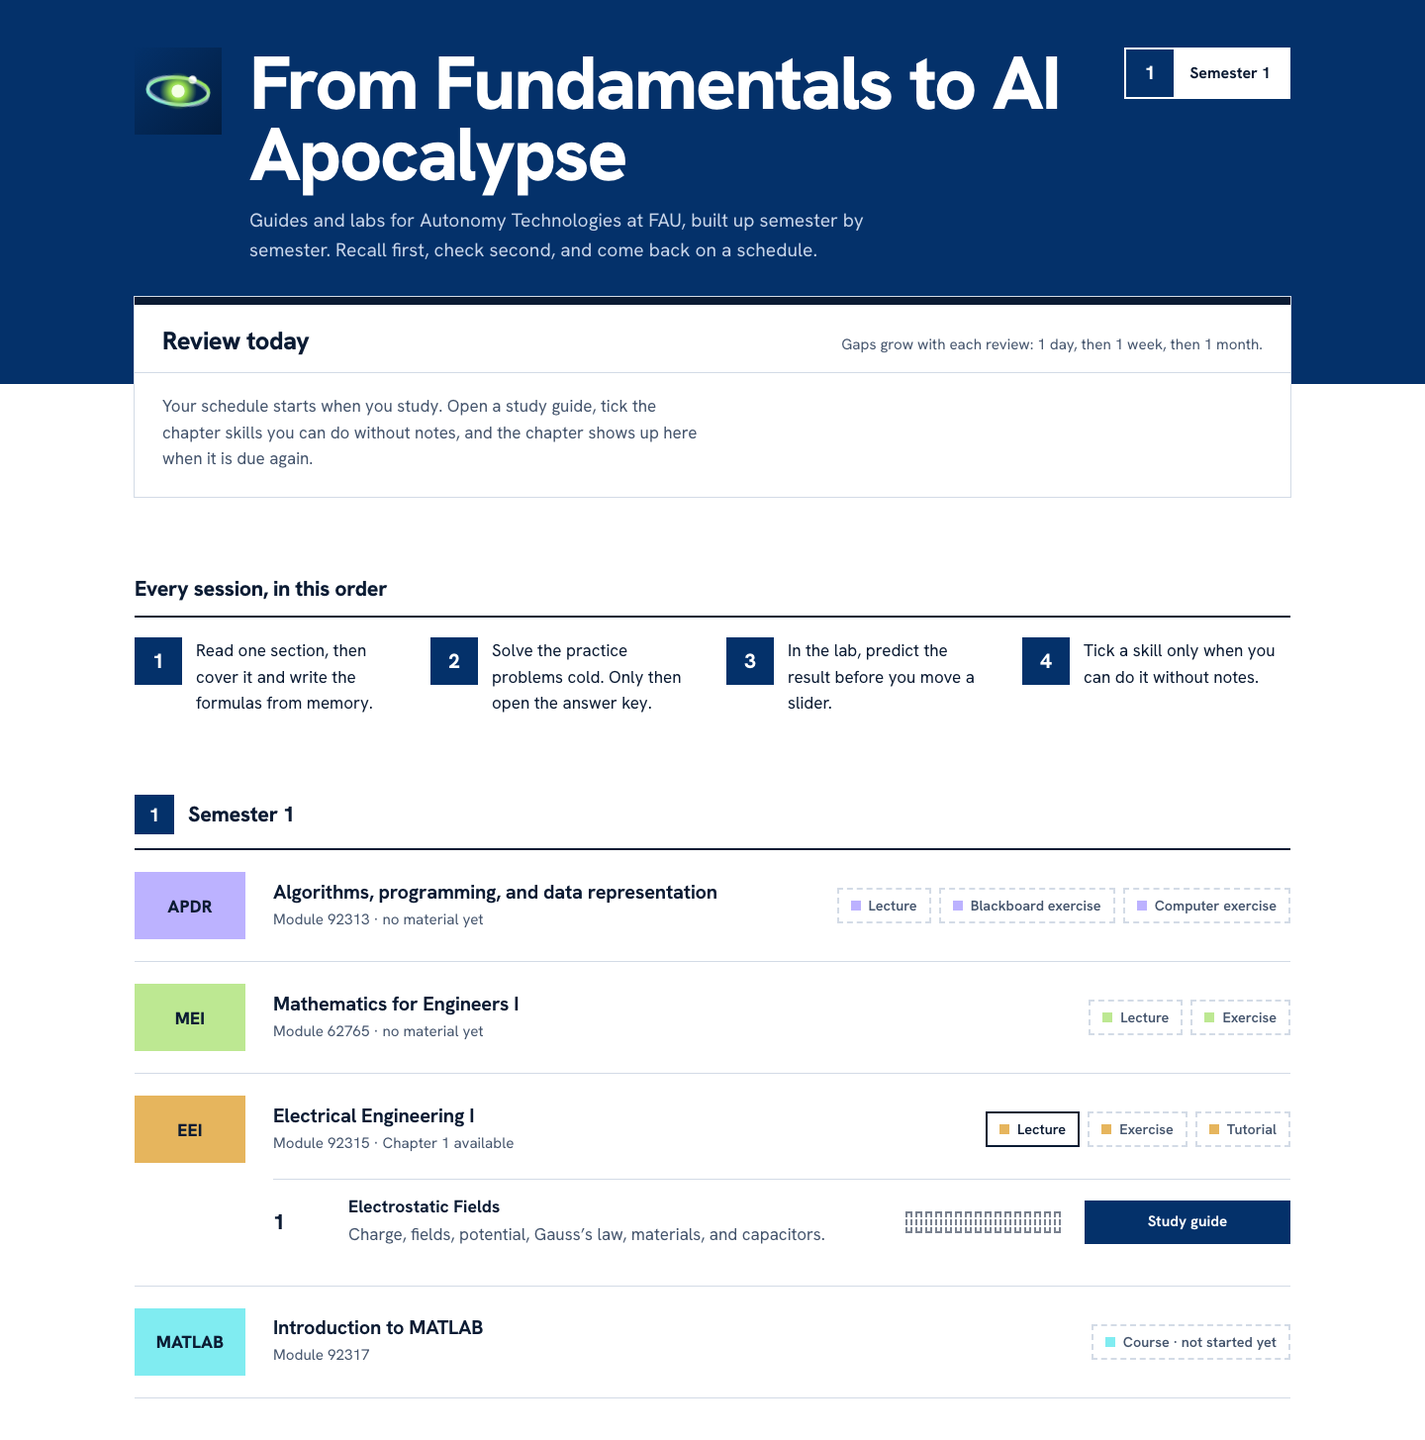
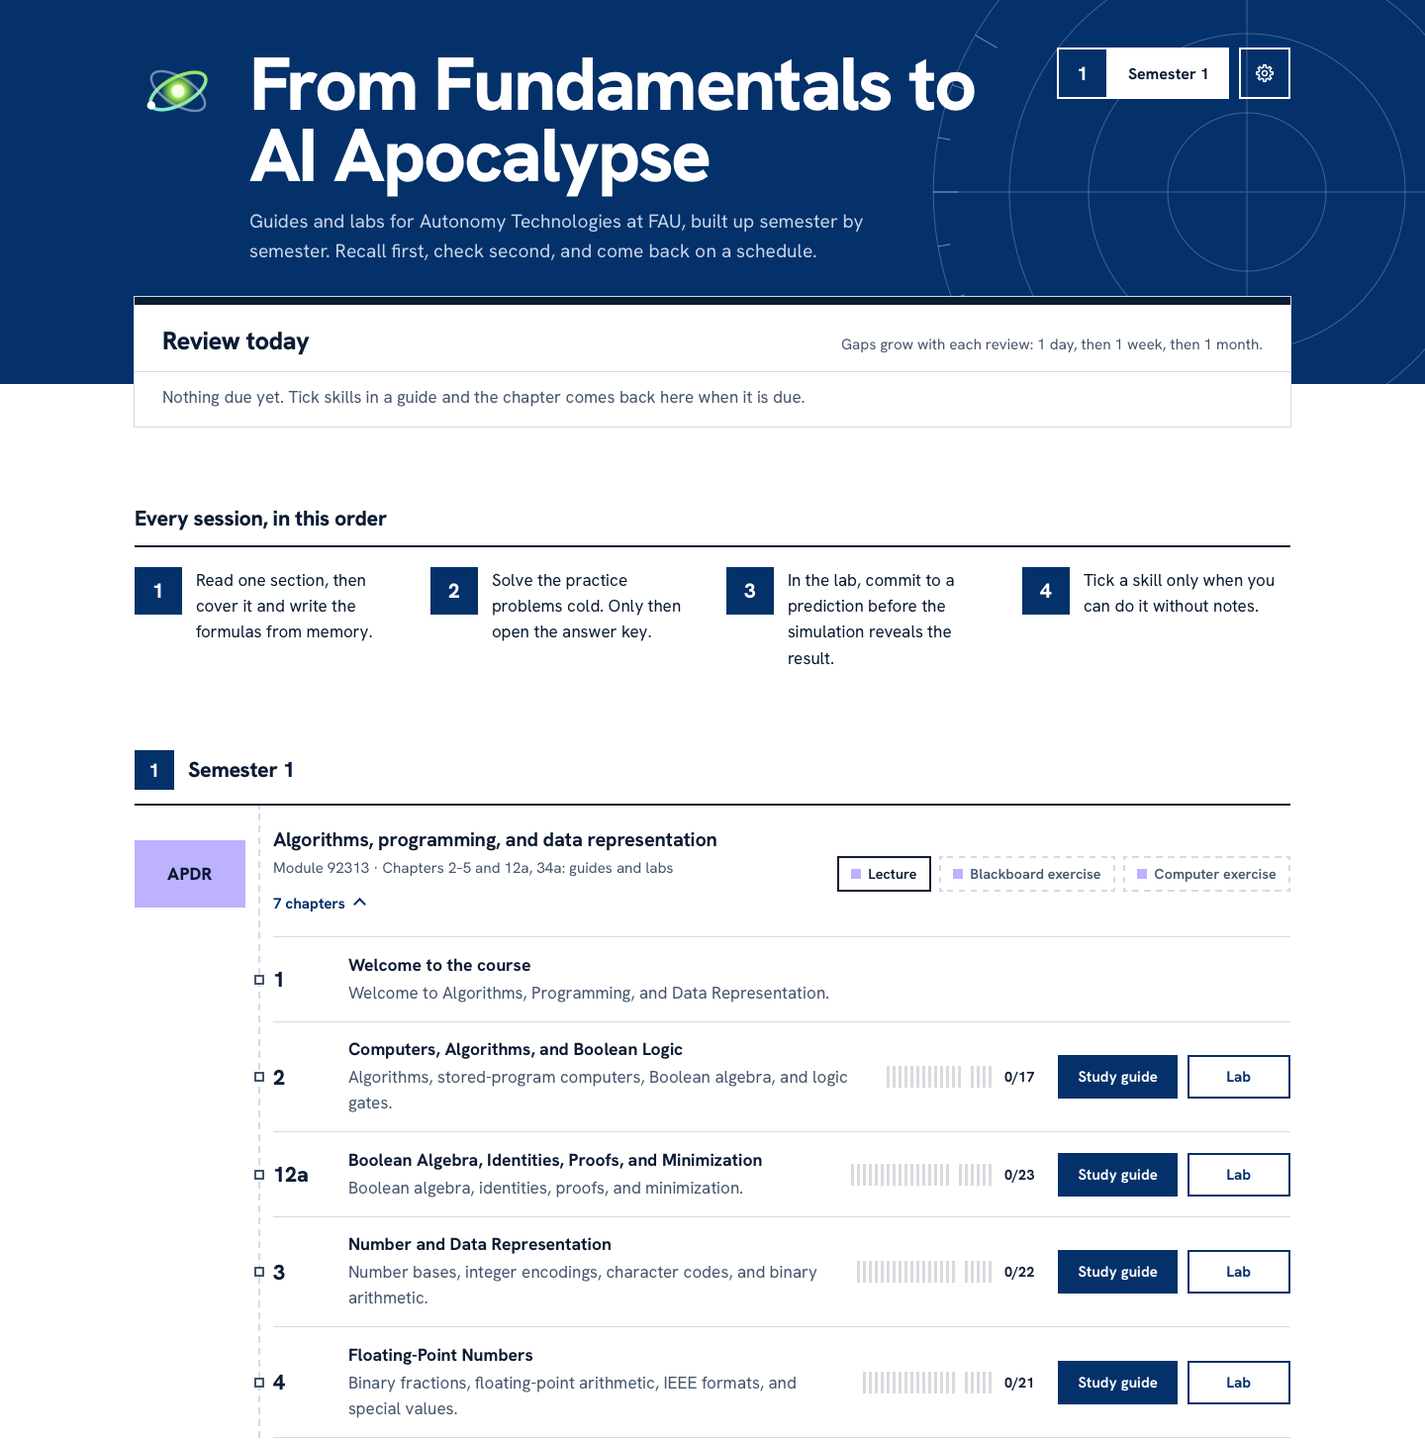
Bring docs up to date and refresh the README preview
README: current chapters, file tree, one PDF rebuild recipe, lab study step,
and a new hub screenshot. Guide and lab standards: credit and watermark,
union and intersection limits, lab progress, bit cells and saved setups.
DESIGN.md and PRODUCT.md match the current site.

diff --git a/README.md b/README.md
@@ -14,18 +14,18 @@ The home page has one section per semester. Each subject shows its module number
 
 | Semester | Code | Subject | Module | Course parts | Material |
 | --- | --- | --- | --- | --- | --- |
-| 1 | APDR | Algorithms, programming, and data representation | 92313 | Lecture, blackboard exercise, computer exercise | Lecture 1 welcome; Chapter 2 guide and lab; Chapter 12a guide and lab; Chapter 3 guide and lab; Chapter 4 guide and lab; Chapter 34a guide and lab; PDFs |
-| 1 | MEI | Mathematics for Engineers I | 62765 | Lecture, exercise | Chapter 1: Statements, Logic, and Sets study guide and PDF |
-| 1 | EEI | Electrical Engineering I | 92315 | Lecture, exercise, tutorial | Chapter 1: Electrostatic Fields guide, PDF and LaTeX source |
+| 1 | APDR | Algorithms, programming, and data representation | 92313 | Lecture, blackboard exercise, computer exercise | Lecture 1 welcome; Chapter 2 guide and lab; Chapter 12a guide and lab; Chapter 3 guide and lab; Chapter 4 guide and lab; Chapter 34a guide and lab; Chapter 5 guide and lab; PDFs |
+| 1 | MEI | Mathematics for Engineers I | 62765 | Lecture, exercise | Chapter 1: Statements, Logic, and Sets; Chapter 2: Real Numbers; Chapter 3: Mappings. Each has a guide, lab and PDF |
+| 1 | EEI | Electrical Engineering I | 92315 | Lecture, exercise, tutorial | Chapter 1: Electrostatic Fields guide, lab, PDF and LaTeX source |
 | 1 | MATLAB | Introduction to MATLAB | 92317 | Course (not started yet) | none yet |
 
-The earlier Electrical Engineering and Mathematics pages were removed on 2026-10-27. The MEI Chapter 1 guide is based on the supplied lecture notes. The current EEI Chapter 1 guide is a new summary based on the supplied WS 2026/27 lecture notes; the earlier guide and lab remain in git history.
+The earlier Electrical Engineering and Mathematics pages were removed on 2026-10-27. The MEI Chapter 1–3 guides are based on the supplied lecture notes (printed pages 1–35) and were reviewed against them; each guide lists the slips it found in the notes. The current EEI Chapter 1 guide is a new summary based on the supplied WS 2026/27 lecture notes; the earlier guide and lab remain in git history.
 
 ## How to study with it
 
 1. Read one section of a guide, then cover its formulas and write them out from memory.
 2. Do the matching practice problems, then open **Show answer key** to check.
-3. Try the same idea in the matching lab: change one input and predict the result before you look.
+3. Try the same idea in the matching lab: predict, say how sure you are, then reveal. After the four fixed challenges, **New challenge** keeps generating fresh ones in most experiments, and **Explore freely** opens the sandbox at any time, where you can type your own values, rules and bit patterns.
 4. Tick the exam checklist as each skill sticks, or press **Log today's review** under the checklist. Ticks and review days are saved in your browser.
 5. Start each session on the home page: **Review today** lists every chapter you have started, most overdue first. The gap before a chapter is due again grows with each review: 1 day, then 1 week, then 1 month.
 
@@ -42,6 +42,11 @@ eei/                    Electrical Engineering I chapter materials
 mei/                    Mathematics for Engineers I chapter materials
   ch1-statements-logic-sets.html     MEI Chapter 1 guide (the single source)
   ch1-statements-logic-sets.pdf/.tex Print version and generated LaTeX source
+  ch1-statements-logic-sets-lab.html Chapter 1 lab
+  ch2-real-numbers.html, .pdf/.tex   Chapter 2 guide and print version
+  ch2-real-numbers-lab.html          Chapter 2 lab
+  ch3-mappings.html, .pdf/.tex       Chapter 3 guide and print version
+  ch3-mappings-lab.html              Chapter 3 lab
 apdr/                   Algorithms, Programming, and Data Representation materials
   ch2-computers.html             Lecture 2 study guide (the single source)
   ch2-computers.pdf/.tex         Print version and generated LaTeX source
@@ -58,6 +63,11 @@ apdr/                   Algorithms, Programming, and Data Representation materia
   ch34a-integer-and-floating-point.html Chapter 34a combined study guide
   ch34a-integer-and-floating-point.pdf/.tex Print version and generated LaTeX source
   ch34a-integer-and-floating-point-lab.html Chapter 34a predict-then-reveal lab
+  ch5-memory-organisation.html, .pdf/.tex Chapter 5 guide and print version
+  ch5-memory-organisation-lab.html Chapter 5 predict-then-reveal lab
+about/
+  how-to-use.html       How to use the site
+  version-log.html      What changed in each release
 css/
   system.css            Shared sign system: tokens, subject colours, code squares, buttons, tooltip
   index.css             Home page layout
@@ -65,6 +75,10 @@ css/
   lab.css               Lab: challenge card, stage, controls, analogy cards
 js/
   index.js              Review today board
+  settings.js           Theme, motion and text size; loads js/hud.js
+  hud.js                HUD layer shared by every page
+  nav.js                Contents rail and chapter switcher
+  orb.js                The turning code-graph orb on the home page
   guide.js              Guide: saved ticks, review log, contents highlight, section links
   concept-map.js        Guide: the clickable "How the chapter fits together" map
   lab.js                Lab engine: challenges, confidence, verdict, results, progress
@@ -79,68 +93,45 @@ js/
   apdr/ch4-lab.js       APDR Chapter 4 experiments
   apdr/ch34-physics.js  Calculations shared by the combined Chapter 34a lab and tests
   apdr/ch34-lab.js      APDR Chapter 34a experiments
-tests/                  Physics tests: node --test
+  apdr/ch12-*.js, apdr/ch5-*.js  APDR Chapter 12a and 5 calculations and experiments
+  mei/ch<N>-physics.js  MEI Chapter 1–3 maths (answer keys and tests use it)
+  mei/ch<N>-lab.js      MEI Chapter 1–3 experiments
+  mei/expr.js           Safe parser for the f(x) students type in the MEI labs
+tests/                  Physics, lab-challenge and generator tests: node --test
 tools/
   guide-to-tex.py       Converts a guide page into its LaTeX file
   check-guide.py        Checks a guide and its lab against the standards
+  graph-describe.py     Plain-English notes for the Graphify page (run by the graph refresh)
+  graph-orb.py          3D layout of the graph for the home-page orb (run by the graph refresh)
 docs/
   GUIDE-STANDARD.md     What a finished study guide contains and how it is checked
   LAB-STANDARD.md       What a finished lab contains and how it is checked
 assets/preview.png      Screenshot used in this README
+assets/graph-orb.json   Orb layout written by tools/graph-orb.py
 ```
 
 No build step for the site. Fonts load from Google Fonts; formulas are plain HTML.
 
 ### Regenerating a guide's PDF
 
-The HTML guide is the single source. After editing it, regenerate the LaTeX and PDF (needs TeX Live with the New Computer Modern fonts):
+The HTML guide is the single source. After editing it, regenerate the LaTeX and PDF (needs TeX Live with the New Computer Modern fonts). For one guide:
 
 ```sh
-python3 -I tools/guide-to-tex.py eei/ch1-electrostatic-fields.html eei/ch1-electrostatic-fields.tex
-cd eei && latexmk -xelatex ch1-electrostatic-fields.tex && latexmk -c ch1-electrostatic-fields.tex
+python3 -I tools/guide-to-tex.py mei/ch3-mappings.html mei/ch3-mappings.tex
+cd mei && latexmk -xelatex ch3-mappings.tex && latexmk -c ch3-mappings.tex
 ```
 
-For the MEI Chapter 1 guide, run:
+For every guide:
 
 ```sh
-python3 -I tools/guide-to-tex.py mei/ch1-statements-logic-sets.html mei/ch1-statements-logic-sets.tex
-cd mei && latexmk -xelatex ch1-statements-logic-sets.tex && latexmk -c ch1-statements-logic-sets.tex
+for g in */ch*.html; do
+  case $g in *-lab.html|graphify-out/*) continue;; esac
+  python3 -I tools/guide-to-tex.py "$g" "${g%.html}.tex"
+  (cd "$(dirname "$g")" && latexmk -xelatex "$(basename "${g%.html}").tex" && latexmk -c "$(basename "${g%.html}").tex")
+done
 ```
 
-For the APDR Lecture 2 guide, run:
-
-```sh
-python3 -I tools/guide-to-tex.py apdr/ch2-computers.html apdr/ch2-computers.tex
-cd apdr && latexmk -xelatex ch2-computers.tex && latexmk -c ch2-computers.tex
-```
-
-For the APDR Chapter 12a Boolean algebra guide, run:
-
-```sh
-python3 -I tools/guide-to-tex.py apdr/ch12a-boolean-algebra.html apdr/ch12a-boolean-algebra.tex
-cd apdr && latexmk -xelatex ch12a-boolean-algebra.tex && latexmk -c ch12a-boolean-algebra.tex
-```
-
-For the APDR Chapter 3 number and data representation guide, run:
-
-```sh
-python3 -I tools/guide-to-tex.py apdr/ch3-data-representation.html apdr/ch3-data-representation.tex
-cd apdr && latexmk -xelatex ch3-data-representation.tex && latexmk -c ch3-data-representation.tex
-```
-
-For the APDR Chapter 4 floating-point numbers guide, run:
-
-\`\`\`sh
-python3 -I tools/guide-to-tex.py apdr/ch4-floating-point-numbers.html apdr/ch4-floating-point-numbers.tex
-cd apdr && latexmk -xelatex ch4-floating-point-numbers.tex && latexmk -c ch4-floating-point-numbers.tex
-\`\`\`
-
-For the APDR Chapter 34a guide, run:
-
-\`\`\`sh
-python3 -I tools/guide-to-tex.py apdr/ch34a-integer-and-floating-point.html apdr/ch34a-integer-and-floating-point.tex
-cd apdr && latexmk -xelatex ch34a-integer-and-floating-point.tex && latexmk -c ch34a-integer-and-floating-point.tex
-\`\`\`
+Then run `python3 -I tools/check-guide.py <guide>.html`; it flags a PDF older than its `.tex`. Every PDF carries a faint diagonal "Made by Thanate Amornjiraporn (Focus)" watermark, set in the converter's preamble.
 
 In the PDF, every answer block moves to an Answers section at the end, so the questions can be tried first.
 

diff --git a/docs/LAB-STANDARD.md b/docs/LAB-STANDARD.md
@@ -45,6 +45,7 @@ Chapter numbers may include a lowercase letter suffix (for example, `12a` or `34
 - **Title:** the section numbers, the topic, then what it shows, e.g. "1.10 Gauss’s law: a charged cylinder". The contents rail and results use the short form ("1.10 Gauss’s law").
 - **Markup:** `<section class="experiment" id="exp-<name>" data-experiment="<name>">` containing an `h2`, an intro paragraph, an optional analogy card, and a `.bench` with `.stage`, `.side > .challenge` and `.side > form.controls`.
 - **Engine id:** `Lab.experiment({ id, title, card, lock, setup, sandbox, challenges, generate })`. The optional `generate()` returns a fresh challenge in the same shape, with its answer computed from the chapter’s physics module; once the fixed challenges are done, the card offers **New challenge**. Generated challenges are never saved and never change the skill tick, and `tests/lab-generators.test.js` checks 300 of each for one correct option among distinct ones. The `id` becomes the hub skill `lab-<id>`; never rename it once published, because saved progress uses it.
+- **Progress:** an experiment counts on the hub (`lab-<id>` ticked in `<prefix>-checks`) as soon as its last fixed challenge is answered, whether or not **Open the sandbox** is pressed; a reload, **Explore freely** or **New challenge** after that never loses the tick, and a later visit repairs a missing one. `js/guide.js` re-reads the checks before it saves, so a guide tab opened earlier does not erase lab ticks. Generated challenges never change the saved results.
 - **Analogy card (optional):** a `<details class="analogy">` under the intro with a picture, a two-column mapping table, and "Holds:" and "Breaks:" lines. Add one only when an honest analogy exists; leave it out where none holds (capacitors in series have none).
 
 ## Challenges
@@ -82,6 +83,8 @@ Add `generate()` wherever the question is a calculation or a classification that
 - **Readouts:** values carry units with SI prefixes through `fmt()`, in tabular figures. Where a comparison is the point, show factors against a stored state ("×2", "×½", "unchanged").
 - **Sandbox state:** `sandbox()` clears every challenge-only field, and Replay re-renders the first challenge from a clean state.
 - **Your own values:** where a preset list limits what can be tried, add an "Or try your own" fieldset (`fieldset.own`) with typed inputs (`data-own`), checked as you type, with a one-line message (`[data-own-msg]`) that says what is wrong and how to fix it. Typed rules go through `js/mei/expr.js` (arithmetic, logic and set expressions, no `eval`). Results update as you type and are shown as soon as the sandbox opens; keep a button only for a step the student takes on purpose (Run one step, Add a charge, Compare from here), never for a calculation that is instant. Bit-pattern fields carry `data-bitcells` (or `data-bitcells="task=decode"` when a `[data-task]` select decides whether the field holds bits); `js/lab.js` adds a row of toggle cells in unbreakable nibbles that flip one bit and fire `input`. Boolean rules in a chapter's own letters go through `Expr.bool(text, "CWR")`. A long formula field takes a whole row (`label.field-row.wide`). Dropdowns a lab builds after load call `Lab.enhance(select)`. Clickable stage cells (APDR 12a K-map and ANF) mirror a typed field, so keyboard users have the same control, and the stage gets the `clicks` class for its pointer cursor.
+- **Bit fields:** a typed field that holds a bit pattern gets `data-bitcells`; `js/lab.js` draws a row of clickable cells under it (one toggle per bit, a gap every four bits, counted from the binary point when there is one) that flips one bit per press and keeps the field and the result in step. `data-bitcells="<control>=<value>"` shows the row only while that control holds that value.
+- **Saving your own setup:** where building a setup takes effort (the EEI charge layout), offer Save and Restore buttons that keep it in `localStorage` under `<prefix>-layout`, restored on a later visit. Read it in `try`/`catch` and ignore anything malformed.
 - **Hover help:** tooltips (`data-tip`) only repeat or explain what is already visible.
 
 ## Layout

diff --git a/docs/GUIDE-STANDARD.md b/docs/GUIDE-STANDARD.md
@@ -30,7 +30,7 @@ Chapter numbers may include a lowercase letter suffix (for example, `12a` or `34
 | Subject class | `<body class="s-<subject>-<course number>">`, matching the hub entry. |
 | Shared assets | Load `../css/system.css`, `../css/guide.css`, `../js/guide.js` and `../js/tooltip.js`. Add a hover tooltip to any element with a `data-tip` attribute; keep it short and supplementary, never the only place information lives. Put chapter-specific styling into `css/guide.css` only if every guide can use it; there are no per-chapter stylesheets. |
 | Hub entry | One `<li class="chapter">` in the subject's list in `index.html`, with `data-key` equal to the guide's key, `data-total` equal to its number of checklist items plus the number of lab experiments, and a link to the guide (and the lab, when there is one). |
-| Generated files | The `.tex` and `.pdf` are generated from the HTML by `tools/guide-to-tex.py` and LaTeX. Never edit them by hand. |
+| Generated files | The `.tex` and `.pdf` are generated from the HTML by `tools/guide-to-tex.py` and LaTeX. Never edit them by hand. The converter adds a faint diagonal "Made by Thanate Amornjiraporn (Focus)" watermark to every PDF page. |
 | Browser test | Add the guide to `staticPages` in the workspace's `BrowserTests/tests/smoke.spec.js`. |
 
 ## Page structure
@@ -52,7 +52,7 @@ The page contains these blocks in this order. Ids are fixed because the contents
 | 11 | Exam-style problems | `exam` | At least 2 multi-part problems, each with its own hidden worked answer. |
 | 12 | Slips in the notes | `slips` | Only when verified slips exist, headed exactly "Slips in the notes". See [Content rules](#content-rules). |
 | 13 | Self-check | `checklist` | See [Practice and testing](#practice-and-testing). |
-| 14 | Source note | — | "Personal study guide based on … written in my own words; no lecture pages or figures are reproduced. Not an official FAU publication; check course details against the current notes." |
+| 14 | Source note | — | "Personal study guide based on … written in my own words; no lecture pages or figures are reproduced. Not an official FAU publication; check course details against the current notes. Made by <strong>Thanate Amornjiraporn (Focus)</strong>." The lab carries the same note. |
 
 The contents rail (`nav.toc`) lists blocks 4 and 6–13 in the same order, once in the desktop list and once in the mobile `details.mobile-toc`. The two lists must be identical.
 
@@ -102,7 +102,7 @@ The PDF converter understands only this markup, so use it for all maths and stru
 | Variable | `<var>E</var>`; vectors are plain variables in this course's HTML |
 | Index, power | `<sub>…</sub>`, `<sup>…</sup>` (no Unicode superscript digits) |
 | Fraction | `<span class="frac"><span>numerator</span><span>denominator</span></span>` |
-| Sum, product | `<span class="op op-sum"><span class="op-sym">∑</span><sub>k=1</sub><sup>n</sup></span>` (∏ for products). The site stacks the top limit, sign and bottom limit; the PDF typesets `\sum`/`\prod` |
+| Sum, product | `<span class="op op-sum"><span class="op-sym">∑</span><sub>k=1</sub><sup>n</sup></span>` (∏ for products, ⋃ and ⋂ for indexed unions and intersections). The site stacks the top limit, sign and bottom limit; the PDF typesets `\sum`/`\prod` |
 | Integral | `<span class="op op-int"><span class="op-sym">∫</span><sub>a</sub><sup>b</sup></span>` (also ∮, ∬, ∯). The limits sit on the sign's right, top over bottom; a closed-path or surface integral may carry only `<sub>` |
 | Formula card | `<div class="eq"><strong>Title</strong><span class="formula">…</span><span class="eq-note">…</span></div>`, with one `span.formula` per relation |
 | Worked example, recall check | `<div class="worked">` or `<div class="recall">`, first child `<p class="worked-title">` or `<p class="recall-title">` |

diff --git a/DESIGN.md b/DESIGN.md
@@ -395,7 +395,7 @@ A 2px ink rule above, 18px top padding, then a 14px solid blue square before the
 ### Formula panels and tables
 - **Formula panel:** Cool Paper fill, 16px by 20px padding, no horizontal scroll: a formula too wide for the card wraps (see Formula typography), no border. The bold title sits 8px above the formulas; each relation takes its own line (line-height 1.6, no gap between lines), and the `eq-note` is set apart 12px below by a 1px `--line` hairline with 10px above its text.
 - **Formula typography:** equations use a math-capable serif fallback (`Cambria Math`, `STIX Two Math`, `Times New Roman`, serif), centered on wide screens and allowed to wrap at spaces on narrow screens; key ratios use stacked fractions. Variables (`<var>`) are italic with a 0.04em trailing space so a following bracket does not collide; function names, units and numbers stay upright. Formula lines never scroll sideways: `js/hud.js` cuts each `.formula` into segments at its top-level relations (= ≤ → ⇔ and the like, never inside brackets, fractions or stacked limits) and after list commas; a segment stays whole, so a long formula breaks just before a relation sign, and the lines are balanced. Only a segment wider than the card by itself (a worded chain) wraps at its spaces. Superscripts and subscripts are 80% of the surrounding size (85% when nested), stacked limits 72%, so exponents such as f⁻¹ stay legible. The browser sets signs flush where TeX would space them, so `js/hud.js` adds the spacing on screen: a set or relation sign written without spaces (∈ ⊂ ⊆ × ∘ ∪ ∩ → = ≤ and a set-builder colon) gets 0.22em either side, a comma gets 0.22em after it, an italic letter gets 0.08em before a bracket, and an exponent sits 0.06em off its letter; indices, stacked limits and anything already spaced are left alone. Notes under formulas get only the set and relation signs spaced.
-- **Big operators:** sums and products stack top limit, sign (1.3em) and bottom limit, centered; integrals set a 1.7em sign with the top limit over the bottom one on its right. Limits are 0.64em. The PDF uses `\sum`, `\prod` and `\int`, which stack in display formulas and sit beside the sign in running text.
+- **Big operators:** sums, products and indexed unions and intersections (∑ ∏ ⋃ ⋂) stack top limit, sign (1.3em) and bottom limit, centered; integrals set a 1.7em sign with the top limit over the bottom one on its right. Limits are 0.72em (see Formula typography). The PDF uses `\sum`, `\prod`, `\bigcup`, `\bigcap` and `\int`, which stack in display formulas and sit beside the sign in running text.
 - **Table:** full width, collapsed, 1px hairline under each row, 9px by 12px cells, tabular figures. The header row is an FAU-blue band with white 700 labels at 0.85rem.
 
 ### Motion

diff --git a/PRODUCT.md b/PRODUCT.md
@@ -41,7 +41,8 @@ Personal study material written from the lecture notes. Each chapter has a retri
 
 ## Evidence on Hand
 
-- Real content: EEI Chapter 1, Electrostatic Fields (`eei/`), the reference guide for the standard. The first EE and Maths guides and labs were deleted on 2026-10-27. `assets/preview.png` is a screenshot of the hub.
+- Real content: EEI Chapter 1, Electrostatic Fields (`eei/`), the reference guide for the standard; MEI Chapters 1–3 (`mei/`); APDR Chapters 2, 3, 4, 5, 12a and 34a (`apdr/`). Every chapter has a guide, PDF and lab. The first EE and Maths guides and labs were deleted on 2026-10-27. `assets/preview.png` is a screenshot of the hub.
+- Attribution: every page and PDF says "Made by Thanate Amornjiraporn (Focus)": the hub footer, each guide and lab source note, and a faint watermark on every PDF page.
 - No testimonials, usage statistics or endorsements exist. Do not invent any.
 
 ## Product Principles
